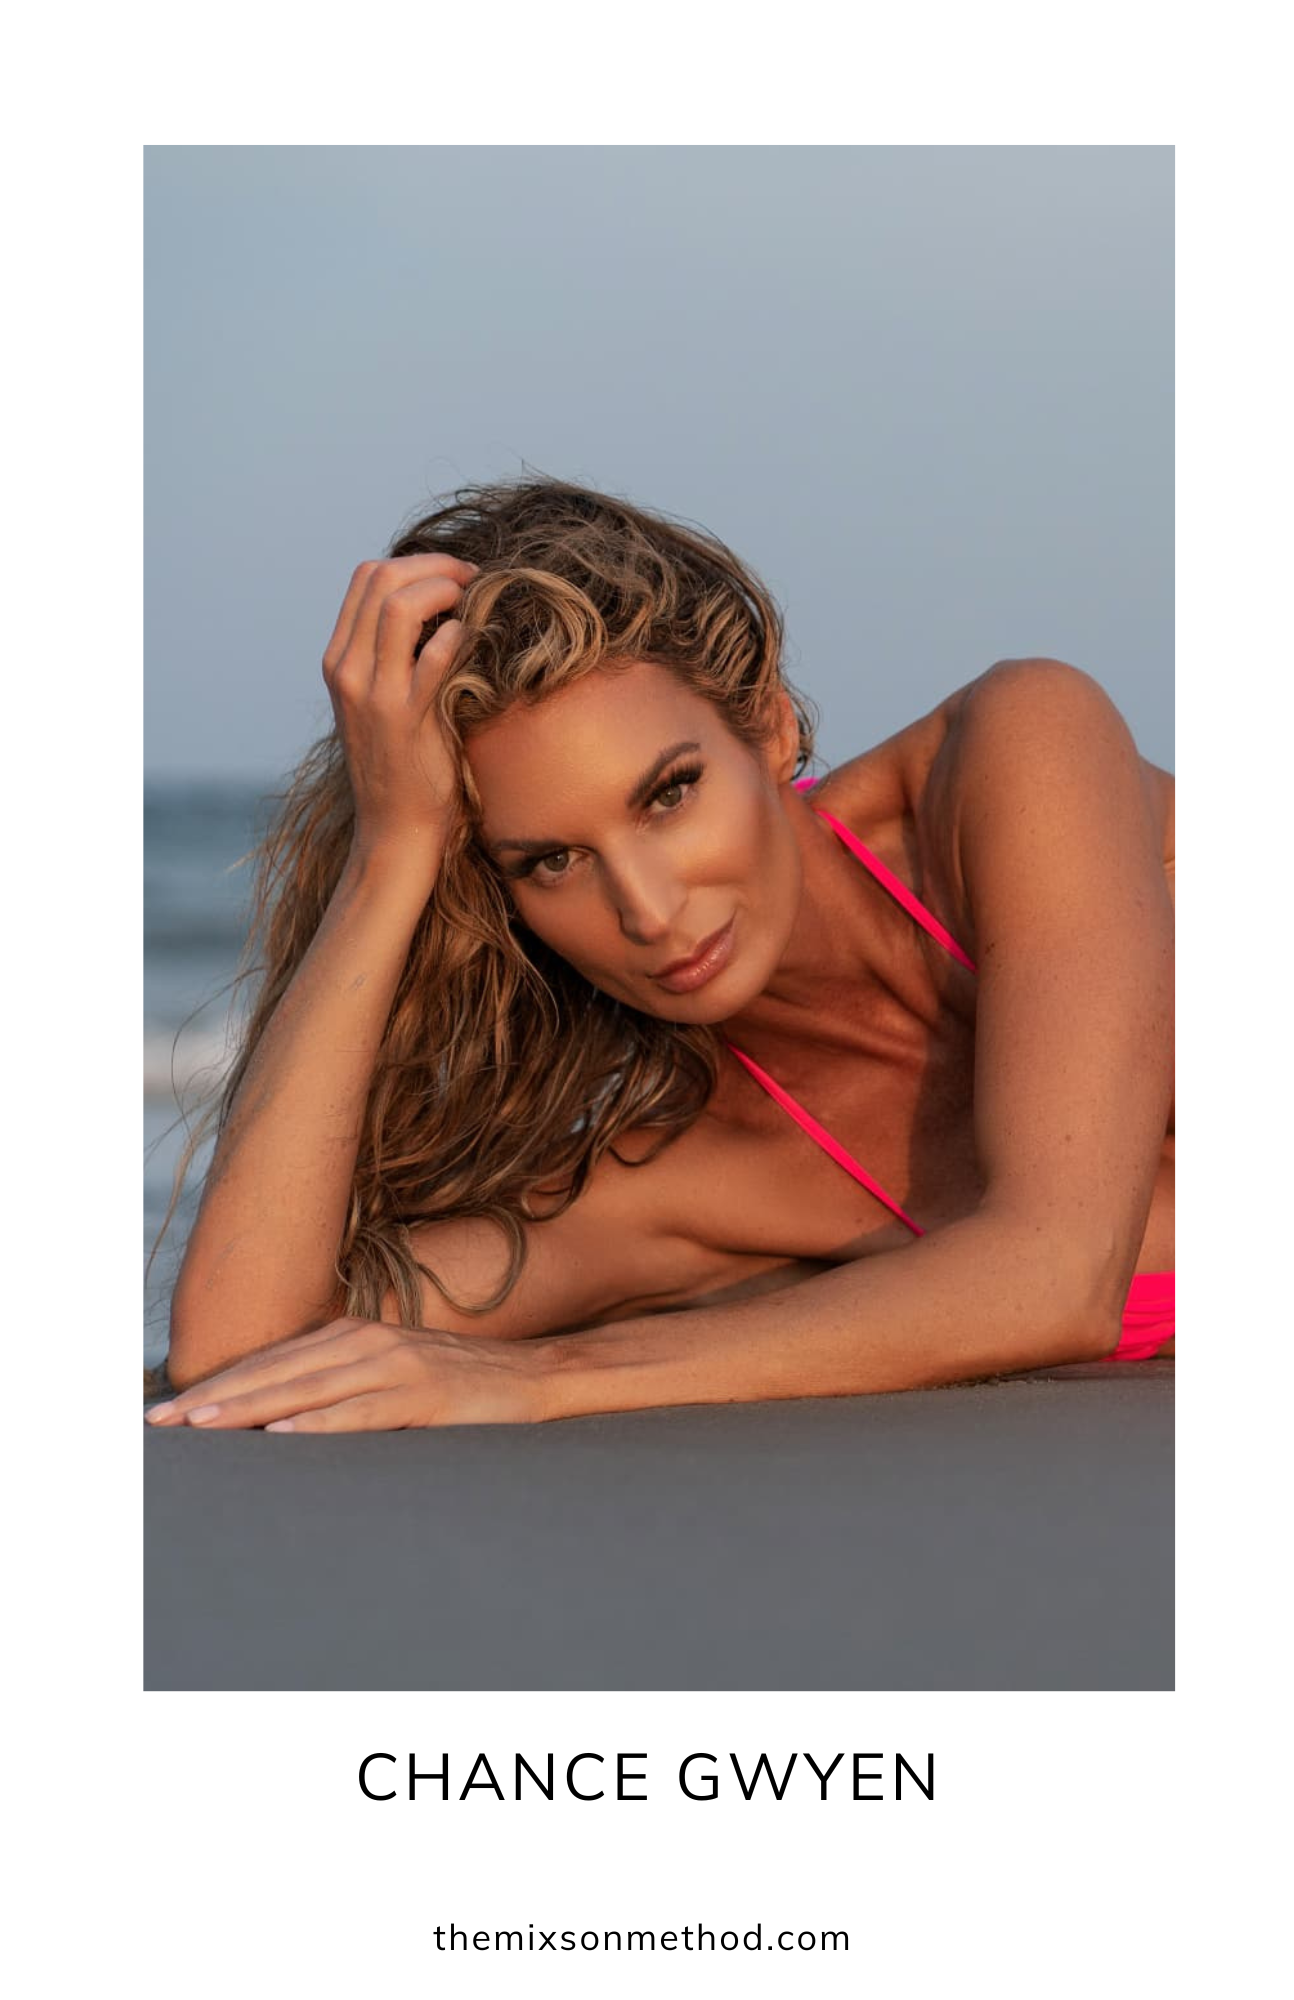
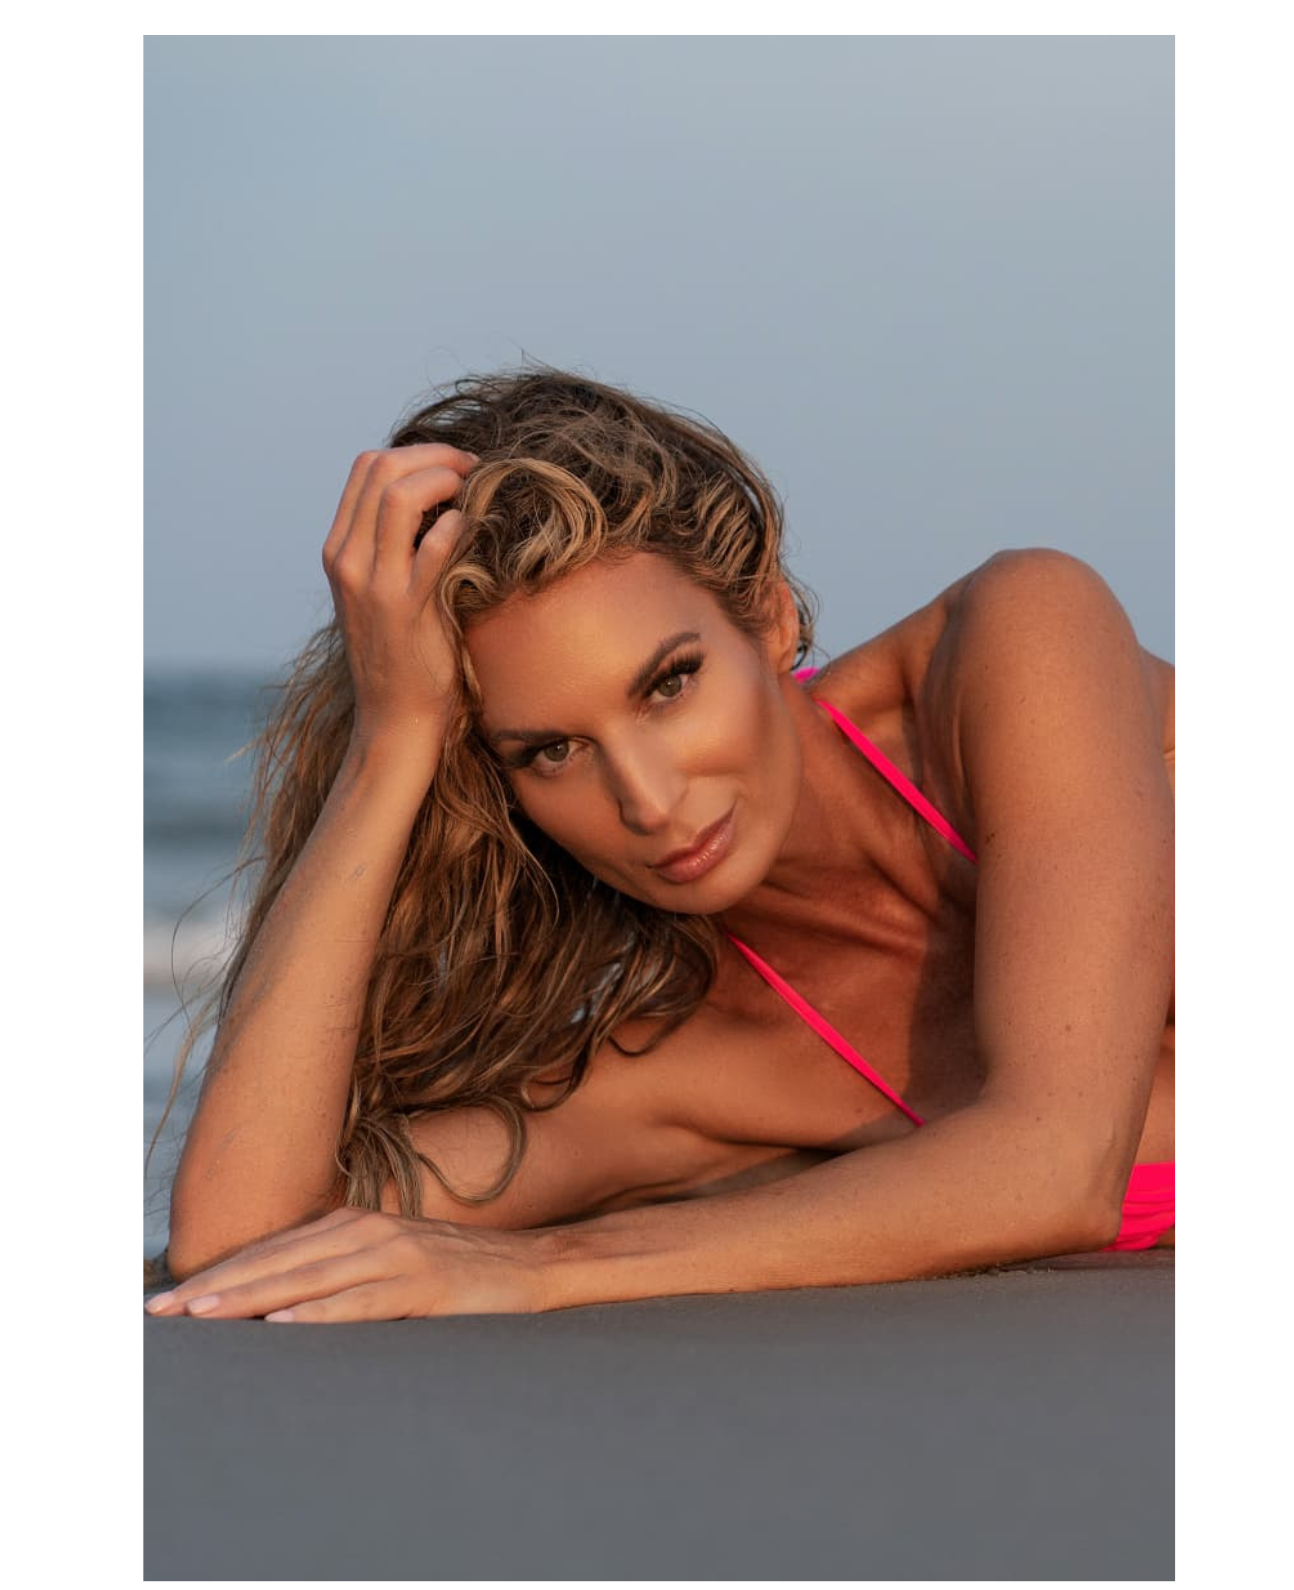
Crop URL from Chance's hero, remove hover overlay on Women featured

diff --git a/app/women/page.tsx b/app/women/page.tsx
@@ -31,18 +31,6 @@ export default function WomenPage() {
                   alt={m.name}
                   className="w-full transition-transform duration-700 group-hover:scale-105"
                 />
-                <div className="absolute inset-0 bg-black/30 flex items-end justify-center pb-10 opacity-0 group-hover:opacity-100 transition-opacity duration-500">
-                  <div className="text-center">
-                    <p className="font-heading text-2xl md:text-3xl tracking-wide uppercase text-white">
-                      {m.name}
-                    </p>
-                    {m.subtitle && (
-                      <p className="text-white/70 text-sm tracking-widest uppercase mt-2">
-                        {m.subtitle}
-                      </p>
-                    )}
-                  </div>
-                </div>
               </div>
             </Link>
           ))}
